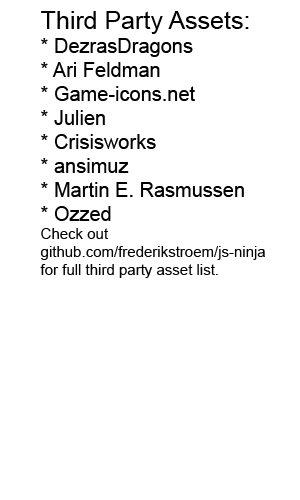
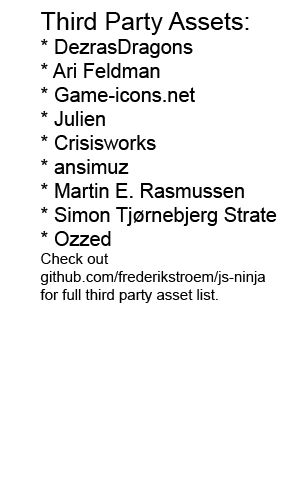
Forgot to credit third party

diff --git a/js/statusBarAndText.js b/js/statusBarAndText.js
@@ -130,5 +130,5 @@ function drawPlayersNeedToReadyUp () {
   drawGameVersion();
 
   // Third party credits.
-  canvasContext.drawImage(thirdPartyCredits, Game.width - 400, Game.height - 300);
+  canvasContext.drawImage(thirdPartyCredits, Game.width - 400, Game.height - 310);
 }
